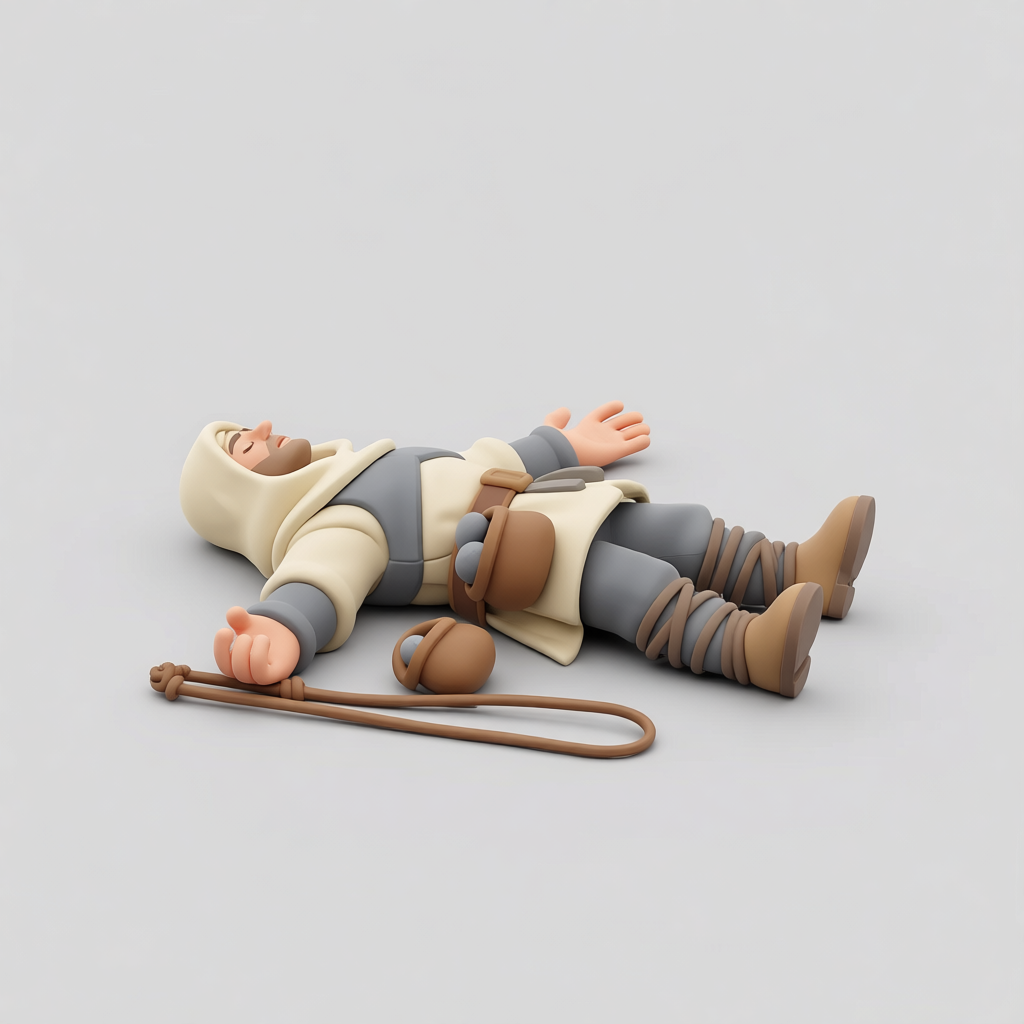
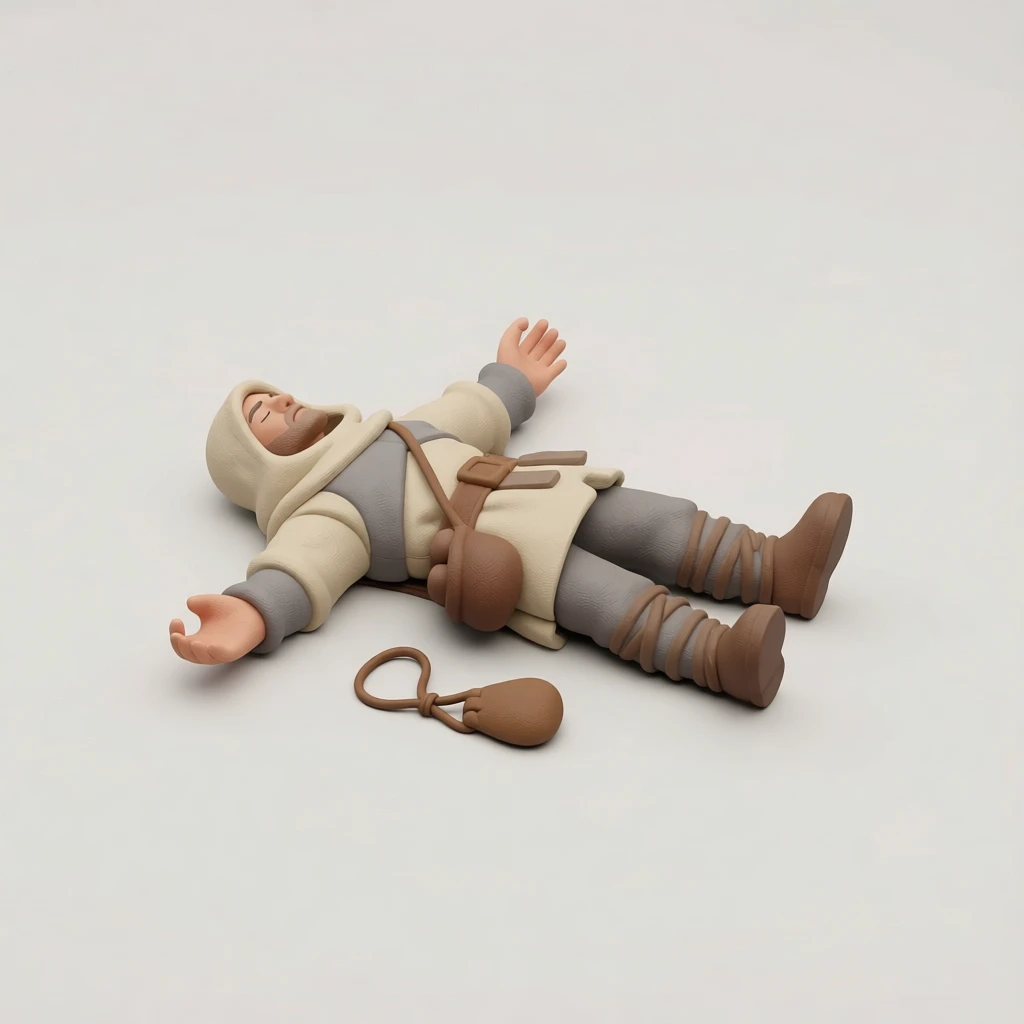
ART-PIPE 3: Hill Slingers derived from the accepted base (4 pose pictures, 4 models into the review batch)
Alex accepted take 1 of the new Hill Slingers base (ind_redo_base, 10-10 12:55), which opened the base-first gate (#179).
The ready picture is that take (the gate's adopt step); march, strike and fallen are edits of it, and the four models
(ready, march, strike, fallen) are made from the picked pictures into review/ind_models for his review.

The outline came back: the shared pose line's "same outline style" drew a thin black outline round the whole figure in
both march takes and one strike take (the effect he rejected on the base). The Slingers' pose rows now use POSE_LINE (the
soft matte clay finish of the base, said as what to do) and the strike line names the short doubled sling (take 1 of the
first strike drew a long trailing cord); the other units keep C_POSE. Re-rolled march and strike came back clean. Picks:
march 2 (take 1 had drifted to a tan tunic), strike 1, fallen 2 (made before the change, clean).

Credits: 21 of the round's budget (3 pictures + 2 re-rolled pictures at 1 each, 4 models at 4), ledgered under redo-10-8.
test_base_gate follows the strike wording.

Changed region(s): [[0.125, 0.3125, 0.875, 0.75]]

diff --git a/tools/ludo/asc_3d_free_holds.py b/tools/ludo/asc_3d_free_holds.py
@@ -77,6 +77,13 @@ drawn a thin black outline round the figure, unlike the soft matte clay look of 
 `prepare_base_input`) with a prompt that keeps its figure, sling and pouch and repaints it as a soft matte hand-painted clay
 miniature; it also rewrites the manifest first, so an edited BASE_REDO reaches the redo. Nothing is derived from it until he
 marks it Good.
+
+The Hill Slingers' derive (10-10): Alex accepted take 1 of that base (`base-status` says which), and `run poses|models --only
+hill_slingers` made the poses and models from it. The shared pose line's "same outline style" drew the outline again (both
+march takes, one strike take), so the Slingers' pose rows use POSE_LINE (the soft matte clay finish of the base, said as what
+to do) and a strike line that names the short doubled sling; the other units keep C_POSE. (The fallen pictures, v2, were made
+with the shared line before it changed and came back clean, so they stand; the ledger holds the prompt each call sent.) A row made before the redo has its
+first request id used, so each row is `reroll`ed before it is run again (a used id would hand back the old job).
 """
 import filecmp
 import json
@@ -166,9 +173,10 @@ UNITS = {
              "left arm held a little out from his side, alert expression, eyes ahead",
         march="loping forward with his left leg ahead, the doubled sling gripped in his right hand at his side with its "
               "small pouch dangling, his left arm swinging, eyes ahead",
-        strike="slinging a stone: his right elbow raised high with his fingers pointing toward the sky, twirling the sling "
-               "in a circle above his head with its pouch whirling at the end of the doubled cord, his left arm "
-               "stretched forward pointing at the target, his left leg stepping forward, eyes on the target ahead",
+        strike="slinging a stone: his right elbow raised high with his fingers pointing toward the sky, twirling the short "
+               "doubled sling in a small circle above his head, the two cord ends gripped together in his fist and the "
+               "small pouch swinging at the end of the short doubled cord, his left arm stretched forward pointing at "
+               "the target, his left leg stepping forward, eyes on the target ahead",
         fallen="fallen in battle, lying flat on his back on the floor with his arms out to the sides, his hood still "
                "on, the sling and the pouch of stones lying on the floor beside him, eyes closed",
         portrait="A Free Holds hill slinger, a lean sharp-eyed local skirmisher in a pale bone-white wool hood and "
@@ -243,6 +251,17 @@ BASE_REDO = {
 ## copied out of the base batch into the gitignored inputs folder by `regen-base`, so the redo keeps exactly what he liked.
 BASE_FROM = {"hill_slingers": "assets/_concept/candidates/_inputs/hill_slingers_base_kept.webp"}
 BASE_TAKES = 3
+## The pose rows' shared line (asc_3d_factions.C_POSE) says "same outline style", the wording that drew the outline on the first
+## base. On the accepted base (10-10) it drew it again: a thin black outline round the whole figure in both march takes and one
+## strike take, the effect Alex rejected ("a cel-shaded outline effect the other models don't have"). The Slingers' poses say
+## what the accepted base looks like instead, in the words of BASE_REDO (a negative is drawn, so each is said as what to do).
+POSE_LINE = {
+    "hill_slingers": ("The same figure, now {pose}. Same outfit, same colours, the same soft matte hand-painted clay miniature "
+                      "as the first picture: the forms are shaped by soft shading and gentle shadow, every colour meets the "
+                      "next at a soft painted edge, the outer edge of the figure is the colour of the cloth, skin and "
+                      "leather itself, {view}, the whole figure with wide empty margin on every side, plain flat light "
+                      "grey background."),
+}
 ## The units whose base Alex accepted before the gate existed: his Good on the ready picture in the batch that judged it
 ## (review/ind_concept, 10-8; PR #178 installed them). If that batch's review.json is here and says otherwise, base_gate
 ## refuses the unit. The Hill Slingers' ready picture was Good with changes there ("a real sling, not a long rope"): it is
@@ -311,7 +330,7 @@ def rows():
         for pose in POSES[1:]:
             view = F.VIEW_LYING if pose in LYING else F.VIEW
             out.append({"id": "pic_%s_%s" % (uid, pose), "stage": "poses", "kind": "edit", "n": 2,
-                        "from_file": pick_path(uid + "_ready"), "prompt": F.C_POSE.format(pose=u[pose], view=view),
+                        "from_file": pick_path(uid + "_ready"), "prompt": POSE_LINE.get(uid, F.C_POSE).format(pose=u[pose], view=view),
                         "pick_to": pick_path("%s_%s" % (uid, pose)), "group": "units", "unit": uid, "pose": pose})
     for uid, u in UNITS.items():
         stage = "portraits1" if u["pstyle"].startswith("grey_") else "portraits2"

diff --git a/tools/ludo/test_asc_3d_free_holds.py b/tools/ludo/test_asc_3d_free_holds.py
@@ -99,6 +99,23 @@ class Rows(unittest.TestCase):
         for name, src in FH.GREY.items():
             self.assertTrue(os.path.exists(os.path.join(FH.ROOT, src)), "%s: its source picture is committed" % name)
 
+    def test_the_slingers_poses_do_not_say_outline_style_and_keep_the_short_doubled_sling(self):
+        """Alex 10-9: the outline was an effect "the other models don't have". The shared pose line's "same outline style" drew
+        it again on the accepted base (10-10), so the Slingers' pose rows say the soft matte clay instead, and every one of
+        their pose lines keeps the short doubled sling; the other units keep the shared line."""
+        rows = {r["id"]: r for r in FH.rows()}
+        for pose in ("march", "strike", "fallen"):
+            prompt = rows["pic_hill_slingers_%s" % pose]["prompt"]
+            self.assertNotIn("outline", prompt.lower())
+            self.assertIn("soft matte hand-painted clay", prompt)
+            self.assertIn("sling", FH.UNITS["hill_slingers"][pose])
+        self.assertIn("short doubled sling", FH.UNITS["hill_slingers"]["strike"])
+        for uid in FH.UNITS:
+            if uid != "hill_slingers":
+                for pose in ("march", "strike", "fallen"):
+                    self.assertTrue(rows["pic_%s_%s" % (uid, pose)]["prompt"].startswith("The same figure, now %s. Same outfit, "
+                                    "same colours, same outline style" % FH.UNITS[uid][pose]))
+
     def test_shipped_portraits_are_written_only_by_the_install_action(self):
         for r in FH.rows():
             self.assertNotIn("assets/portraits/", r.get("pick_to", ""), "%s picks into a pipeline-input folder" % r["id"])

diff --git a/tools/ludo/test_base_gate.py b/tools/ludo/test_base_gate.py
@@ -495,7 +495,7 @@ class TheRedoCarriesAlexsNotes(unittest.TestCase):
         u = FH.UNITS["hill_slingers"]
         self.assertIn("doubled", u["base"])
         strike = u["strike"]
-        for word in ("elbow", "fingers pointing toward the sky", "twirling the sling", "above his head"):
+        for word in ("elbow", "fingers pointing toward the sky", "twirling the short doubled sling", "above his head"):
             self.assertIn(word, strike)
         self.assertNotIn("rifle", strike)
         self.assertNotIn("long leather sling", u["outfit"])
